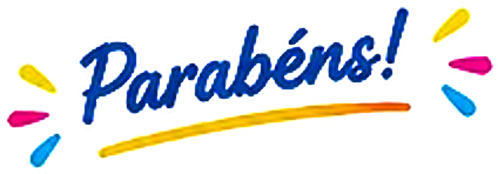
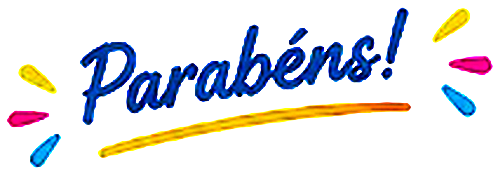
Aniversariantes: assinaturas mais nitidas e retry no carregamento da arte
- Carregamento de imagens da arte tenta ate 3x; se a assinatura falhar, avisa em vez de gerar arte incompleta
- Bordas das assinaturas das frases 2 a 5 mais definidas e pontilhado removido na frase 4

diff --git a/lib/arte-aniversario.ts b/lib/arte-aniversario.ts
@@ -94,7 +94,7 @@ function quebrarLinhas(ctx: CanvasRenderingContext2D, texto: string, maxW: numbe
   return linhas;
 }
 
-function loadImage(src: string, cors = false): Promise<HTMLImageElement> {
+function loadImageOnce(src: string, cors: boolean): Promise<HTMLImageElement> {
   return new Promise((resolve, reject) => {
     const img = new window.Image();
     if (cors) img.crossOrigin = 'anonymous';
@@ -102,6 +102,20 @@ function loadImage(src: string, cors = false): Promise<HTMLImageElement> {
     img.onerror = () => reject(new Error(`Falha ao carregar imagem: ${src}`));
     img.src = src;
   });
+}
+
+// Tenta de novo (com cache burlado) para não gerar arte incompleta por falha momentânea de rede
+async function loadImage(src: string, cors = false, tentativas = 3): Promise<HTMLImageElement> {
+  let erro: unknown;
+  for (let i = 0; i < tentativas; i++) {
+    try {
+      return await loadImageOnce(i === 0 ? src : `${src}${src.includes('?') ? '&' : '?'}retry=${i}-${Date.now()}`, cors);
+    } catch (e) {
+      erro = e;
+      await new Promise(r => setTimeout(r, 300 * (i + 1)));
+    }
+  }
+  throw erro;
 }
 
 function roundedRect(ctx: CanvasRenderingContext2D, x: number, y: number, w: number, h: number, r: number) {
@@ -188,13 +202,10 @@ export async function gerarArteAniversario(nome: string, fotoUrl?: string | null
   }
   linhas.forEach((linha, i) => ctx.fillText(linha, FRASE_BOX.x, FRASE_BOX.y + fonte * 0.9 + i * passo));
 
-  // Assinatura original da frase (Parabéns!, Você merece o melhor!, etc.)
-  try {
-    const assinatura = await loadImage(frase.assinatura.url);
-    ctx.drawImage(assinatura, frase.assinatura.x, frase.assinatura.y);
-  } catch (e) {
-    console.warn('Assinatura da arte não pôde ser carregada.', e);
-  }
+  // Assinatura original da frase (Parabéns!, Você merece o melhor!, etc.).
+  // Sem ela a arte sai incompleta, então a falha é propagada (o botão avisa em vez de enviar pela metade).
+  const assinatura = await loadImage(frase.assinatura.url);
+  ctx.drawImage(assinatura, frase.assinatura.x, frase.assinatura.y);
 
   return new Promise((resolve, reject) =>
     canvas.toBlob(b => (b ? resolve(b) : reject(new Error('Falha ao gerar imagem'))), 'image/png')
